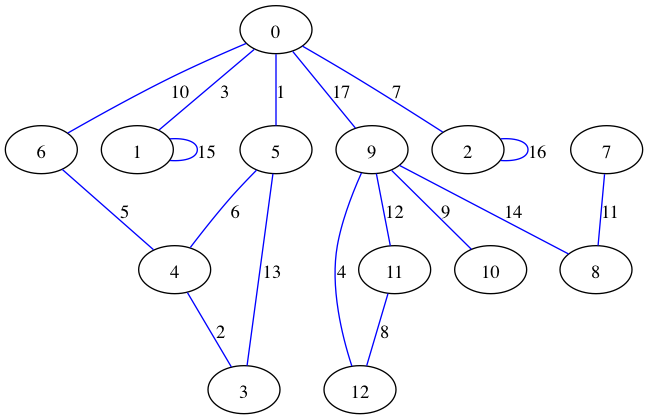
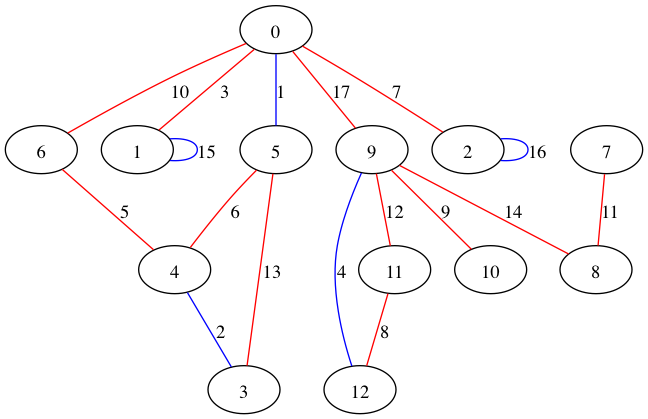
lazy_prim

diff --git a/algorithm/graph/mst.rb b/algorithm/graph/mst.rb
@@ -1,9 +1,39 @@
 class MinimumSpanningTree
-  attr_accessor :edges, :weight, :marked, :graph
+  attr_accessor :crossing_edges, :marked, :graph, :mst
 
   def initialize(graph)
     @graph = graph
     @marked = []
+    @mst = []
+    @crossing_edges = PQueue.new
+  end
+
+  def lazy_prim
+    visit(0)
+    while (@crossing_edges.size != 0)
+      edge = @crossing_edges.pop
+      v, w = edge.v, edge.w
+      next if (@marked.include?(v) && @marked.include?(w))
+      @mst << edge
+      visit(v) unless @marked.include?(v)
+      visit(w) unless @marked.include?(w)
+    end
+  end
+
+  def visit(vertex)
+    @marked << vertex
+    @graph.adjacents[vertex].each do |other|
+      @crossing_edges << @graph.getEdge(vertex, other) unless @marked.include?(other)
+    end
+  end
+
+  def colored_pv
+    puts "graph G {"
+    @graph.edges.each do |edge|
+      color = @mst.include?(edge) ? "red" : "blue"
+      puts "#{edge.v} -- #{edge.w} [color = \"#{color}\", label = \"#{edge.weight}\"];"
+    end
+    puts "}"
   end
 
 end

diff --git a/algorithm/graph/spec/mst_spec.rb b/algorithm/graph/spec/mst_spec.rb
@@ -10,7 +10,8 @@ describe MinimumSpanningTree do
 
   it "should generate MST correctly" do
     mst = MinimumSpanningTree.new(@ug)
-    # p mst.marked
+    mst.lazy_prim
+    p mst.colored_pv
   end
 
 
